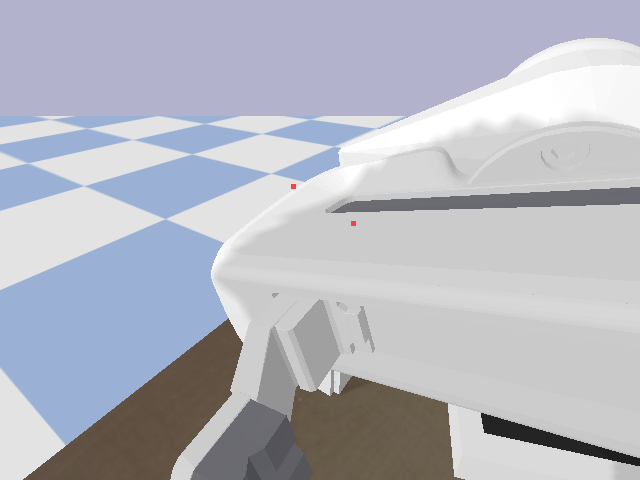
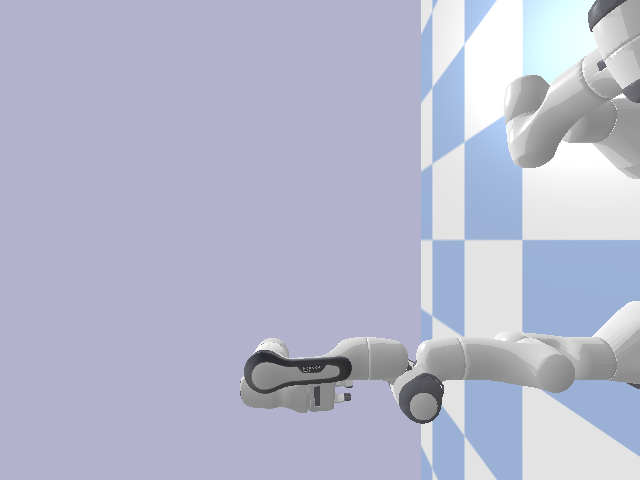
feat: mount camera

diff --git a/robot_chef/tasks/pour_bowl_into_pan.py b/robot_chef/tasks/pour_bowl_into_pan.py
@@ -157,6 +157,7 @@ class PourBowlIntoPanAndReturn:
 
         self.camera: Optional[Camera] = None
         self.controller: Optional[VisionRefineController] = None
+        self.active_arm_name: str = "right"
 
         self._T_eef_cam = np.eye(4, dtype=float)
         self._T_cam_eef = np.eye(4, dtype=float)
@@ -190,11 +191,21 @@ class PourBowlIntoPanAndReturn:
             noise=CameraNoiseModel(depth_std=noise_cfg.depth_std, drop_prob=noise_cfg.drop_prob),
         )
 
+        # Choose closer arm to the bowl and mount the wrist camera there
+        bowl_pos_cfg = np.array([cfg.bowl_pose.x, cfg.bowl_pose.y, cfg.bowl_pose.z], dtype=float)
+        ls_left = p.getLinkState(sim.left_arm.body_id, sim.left_arm.ee_link, computeForwardKinematics=True, physicsClientId=sim.client_id)
+        ls_right = p.getLinkState(sim.right_arm.body_id, sim.right_arm.ee_link, computeForwardKinematics=True, physicsClientId=sim.client_id)
+        d_left = float(np.linalg.norm(bowl_pos_cfg - np.asarray(ls_left[4], dtype=float)))
+        d_right = float(np.linalg.norm(bowl_pos_cfg - np.asarray(ls_right[4], dtype=float)))
+        use_left = d_left <= d_right
+        active = sim.left_arm if use_left else sim.right_arm
+        self.active_arm_name = "left" if use_left else "right"
+
         rel_translation = (0.06, 0.0, 0.12)
         rel_rpy_deg = (-10.0, -65.0, 0.0)
         self.camera.mount_to_link(
-            parent_body_id=sim.right_arm.body_id,
-            parent_link_id=sim.right_arm.ee_link,
+            parent_body_id=active.body_id,
+            parent_link_id=active.ee_link,
             rel_xyz=rel_translation,
             rel_rpy_deg=rel_rpy_deg,
         )
@@ -206,19 +217,21 @@ class PourBowlIntoPanAndReturn:
         self._T_eef_cam[:3, 3] = np.array(rel_translation, dtype=float)
         self._T_cam_eef = np.linalg.inv(self._T_eef_cam)
 
+        LOGGER.info("Using %s arm and wrist camera", self.active_arm_name.upper())
+
         self.controller = VisionRefineController(
             client_id=sim.client_id,
-            arm_id=sim.right_arm.body_id,
-            ee_link=sim.right_arm.ee_link,
-            arm_joints=sim.right_arm.joint_indices,
+            arm_id=active.body_id,
+            ee_link=active.ee_link,
+            arm_joints=active.joint_indices,
             dt=sim.dt,
             camera=self.camera,
-            handeye_T_cam_in_eef=self._T_eef_cam,
-            gripper_open=lambda width=0.08: sim.gripper_open(width=width, arm="right"),
-            gripper_close=lambda force=60.0: sim.gripper_close(force=force, arm="right"),
+            handeye_T_cam_in_eef=self._T_cam_eef,
+            gripper_open=lambda width=0.08: sim.gripper_open(width=width, arm=self.active_arm_name),
+            gripper_close=lambda force=60.0: sim.gripper_close(force=force, arm=self.active_arm_name),
         )
 
-        sim.gripper_open(arm="right")
+        sim.gripper_open(arm=self.active_arm_name)
         if cfg.particles > 0:
             sim.spawn_rice_particles(cfg.particles, seed=cfg.seed)
 
@@ -336,7 +349,6 @@ class PourBowlIntoPanAndReturn:
         attempt: int,
     ) -> Optional[Dict[str, object]]:
         assert self.camera is not None
-        self.camera.aim_at_world((bowl_pose.x, bowl_pose.y, bowl_pose.z))
         rgb, depth, K, seg_mask = self.camera.get_rgbd(with_segmentation=True)
         depth_valid = depth[depth > 0.0]
         dmin = float(depth_valid.min()) if depth_valid.size else 0.0
@@ -447,7 +459,6 @@ class PourBowlIntoPanAndReturn:
             feature_points_world = self._feature_points_world
 
             def get_features() -> Tuple[Optional[np.ndarray], Optional[np.ndarray]]:
-                self.camera.aim_at_world(tuple(detection.get("center_3d", feature_points_world.mean(axis=0))))
                 _, _, _, _ = self.camera.get_rgbd()
                 uv_meas, Z_meas = _project_world_points(
                     feature_points_world,

diff --git a/robot_chef/perception/bowl_rim.py b/robot_chef/perception/bowl_rim.py
@@ -187,7 +187,6 @@ def detect_bowl_rim(
     for ang in np.linspace(0.0, 2.0 * math.pi, max(sample_count, 8), endpoint=False):
         radial_local = np.array([math.cos(ang), math.sin(ang), 0.0], dtype=float)
         tangent_local = np.array([-math.sin(ang), math.cos(ang), 0.0], dtype=float)
-        normal_local = np.array([0.0, 0.0, 1.0], dtype=float)
         grasp_local = np.array(
             [
                 radius_est * radial_local[0],
@@ -199,8 +198,30 @@ def detect_bowl_rim(
         grasp_world = bowl_origin + R_wb @ grasp_local
         radial_world = R_wb @ radial_local
         tangent_world = R_wb @ tangent_local
-        normal_world = R_wb @ normal_local
-        R_world = np.column_stack([tangent_world, radial_world, normal_world])
+
+        z_axis = -radial_world
+        z_norm = np.linalg.norm(z_axis)
+        if z_norm < 1e-6:
+            continue
+        z_axis /= z_norm
+
+        x_axis = tangent_world
+        x_norm = np.linalg.norm(x_axis)
+        if x_norm < 1e-6:
+            continue
+        x_axis /= x_norm
+
+        y_axis = np.cross(z_axis, x_axis)
+        y_norm = np.linalg.norm(y_axis)
+        if y_norm < 1e-6:
+            continue
+        y_axis /= y_norm
+
+        # Re-orthogonalise x_axis in case of numerical drift
+        x_axis = np.cross(y_axis, z_axis)
+        x_axis /= np.linalg.norm(x_axis)
+
+        R_world = np.column_stack([x_axis, y_axis, z_axis])
         quat = _matrix_to_quaternion(R_world)
         quality = float(np.clip(0.95 - 0.1 * abs(math.sin(ang * 2.0)), 0.0, 1.0))
         grasp_candidates.append(
